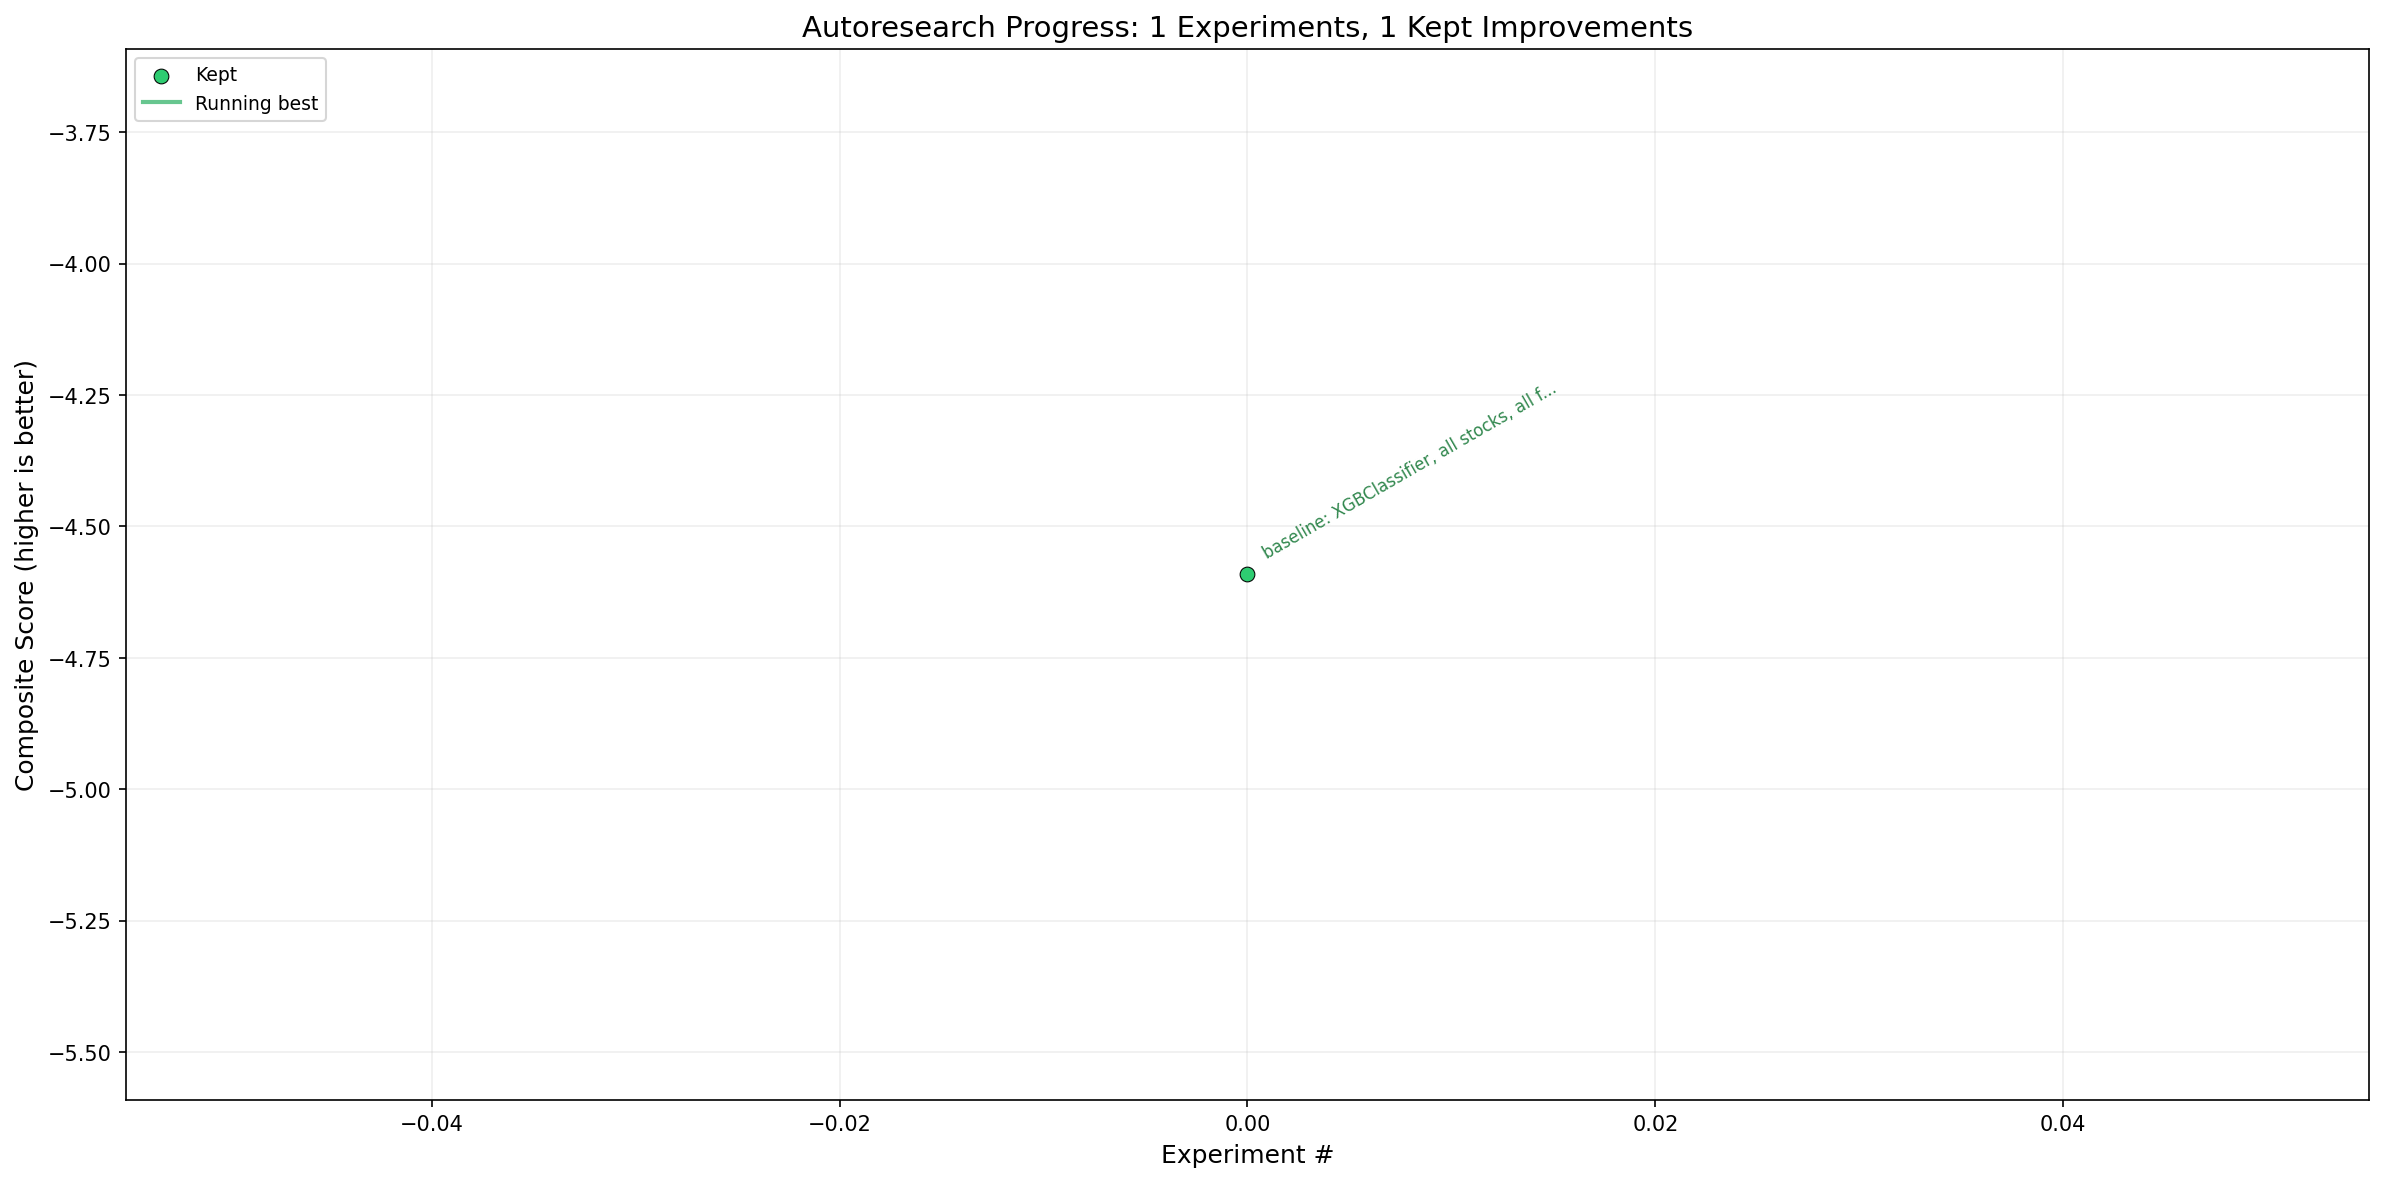
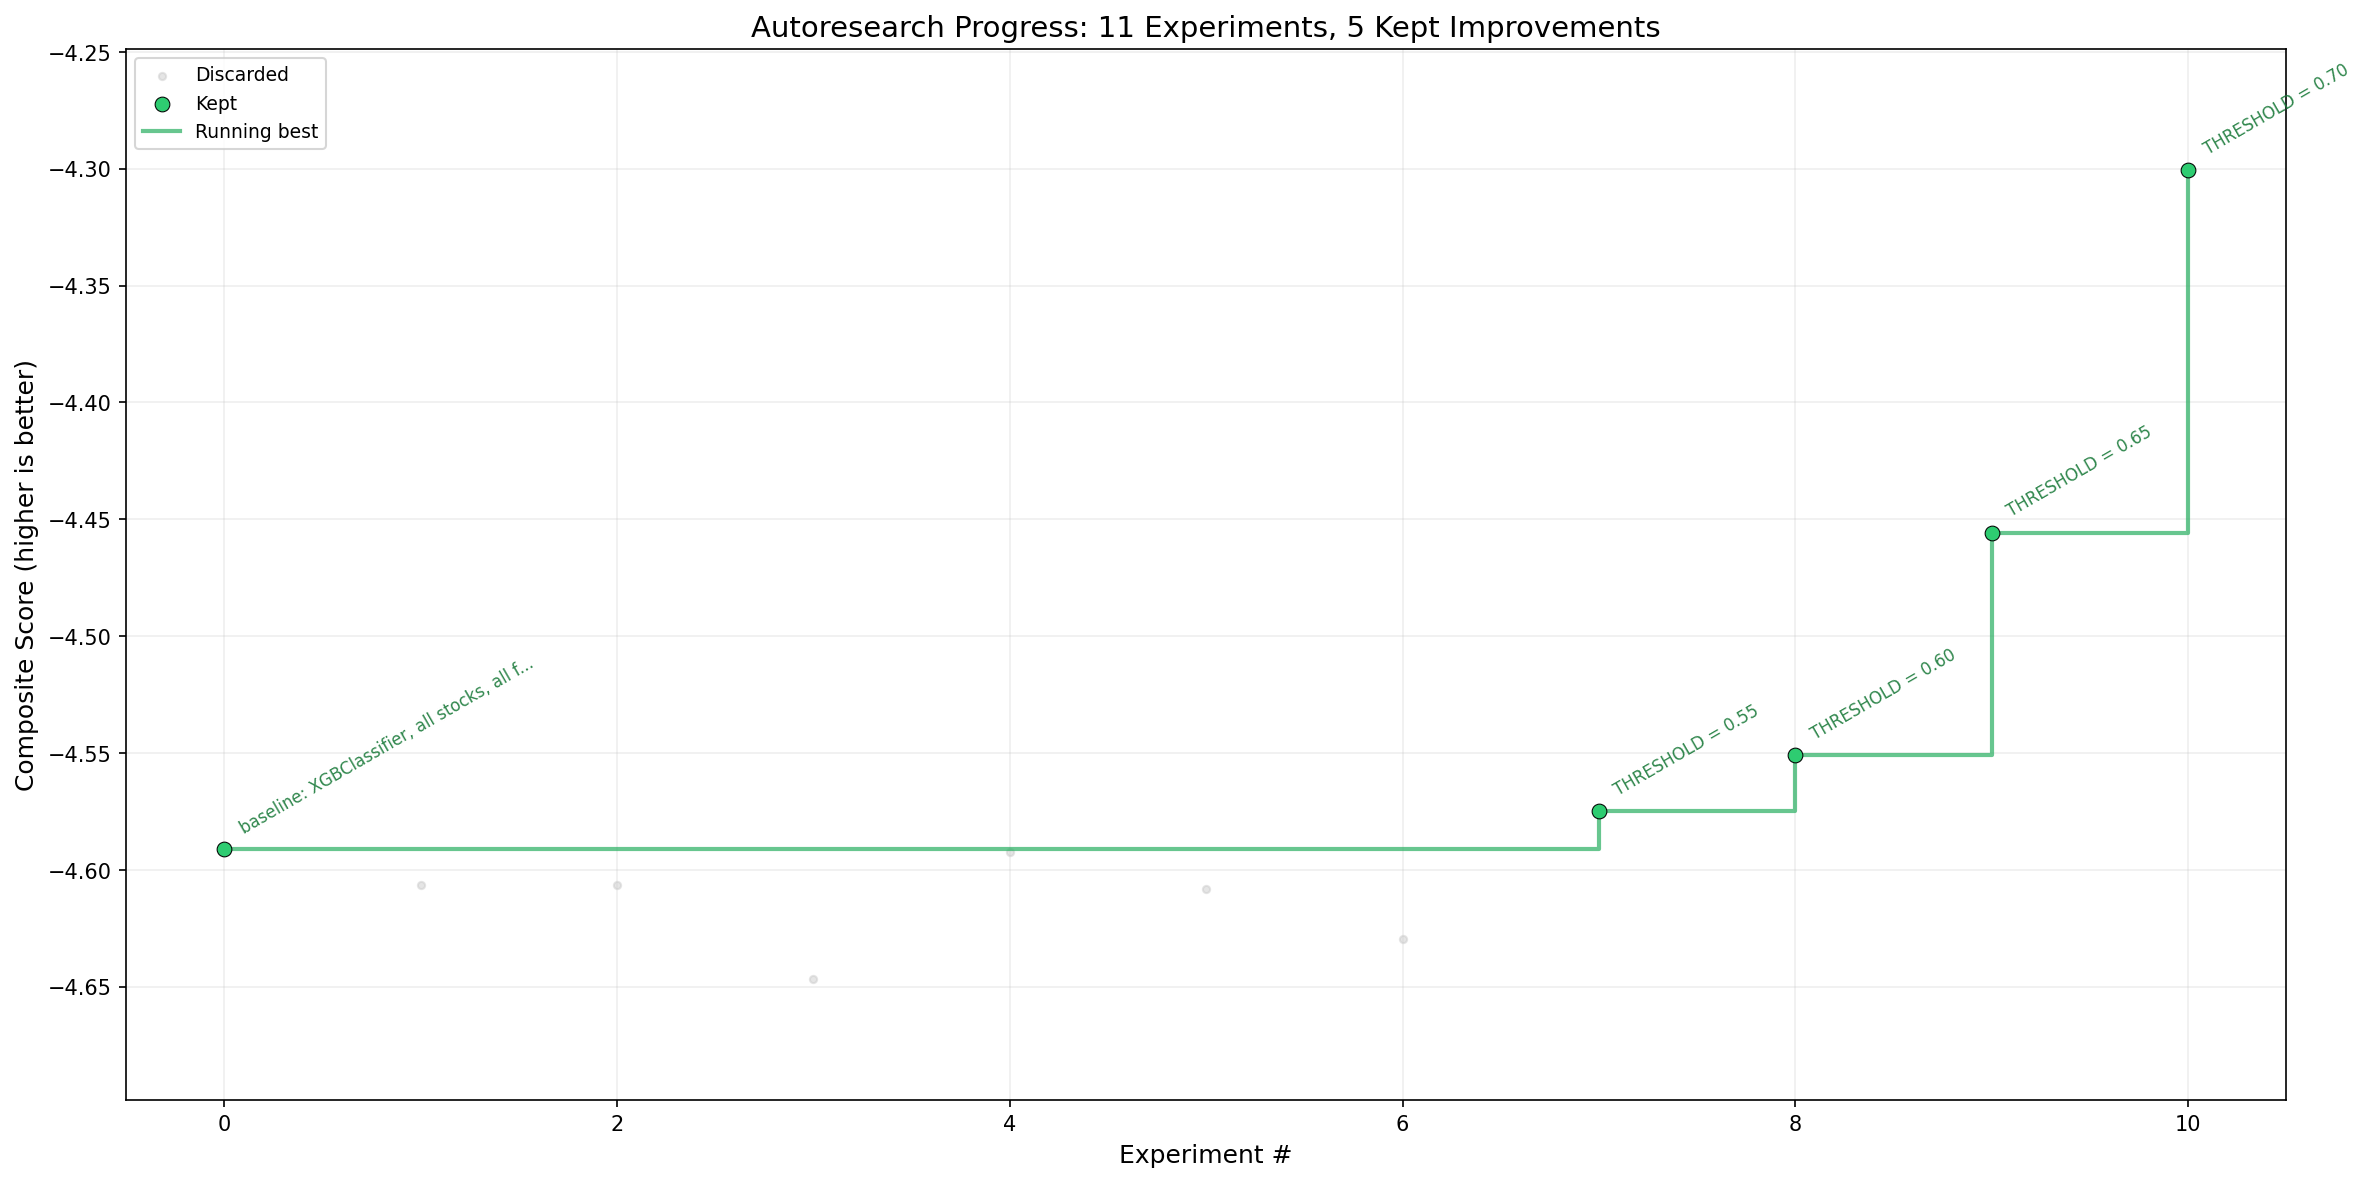
research: iter 12, score=-3.9724 (+0.3282)

diff --git a/research/experiment.py b/research/experiment.py
@@ -37,7 +37,7 @@ TRAIN_END = "2022-12-31"
 VAL_END = "2023-12-31"
 
 # Prediction threshold
-THRESHOLD = 0.70
+THRESHOLD = 0.75
 
 # ===========================================================================
 # MODEL -- researcher edits this section

diff --git a/research/COMBAT_LOG.md b/research/COMBAT_LOG.md
@@ -1,3 +1,186 @@
 # Combat Log
 
 What worked, what failed, and why. Read this BEFORE starting a new iteration.
+
+### Iteration 1 -- REVERTED (-0.0151)
+Score: -4.6063 vs best -4.5912
+Change: THRESHOLD = 0.30 
+```diff
+diff --git a/research/experiment.py b/research/experiment.py
+index af3e4f4..6277dca 100644
+--- a/research/experiment.py
++++ b/research/experiment.py
+@@ -37,7 +37,7 @@ TRAIN_END = "2022-12-31"
+ VAL_END = "2023-12-31"
+ 
+ # Prediction threshold
+-THRESHOLD = 0.5
++THRESHOLD = 0.30
+ 
+ # ===========================================================================
+ # MODEL -- researcher edits this section
+```
+
+### Iteration 2 -- REVERTED (-0.0151)
+Score: -4.6063 vs best -4.5912
+Change: from lightgbm import LGBMClassifier     model = LGBMClassifier(         n_estima
+```diff
+diff --git a/research/experiment.py b/research/experiment.py
+index af3e4f4..5d2dc3c 100644
+--- a/research/experiment.py
++++ b/research/experiment.py
+@@ -11,7 +11,7 @@ import sys
+ from pathlib import Path
+ 
+ import numpy as np  # noqa: F401 -- available for researcher
+-from xgboost import XGBClassifier
++from lightgbm import LGBMClassifier
+ 
+ # Ensure project root is on path
+ sys.path.insert(0, str(Path(__file__).resolve().parent.parent))
+@@ -46,20 +46,19 @@ THRESHOLD = 0.5
+ 
+ def build_model(y_train):
+     """Return a fitted-ready model. Researcher chooses model type and hyperparams."""
+-    neg = (y_train == 0).sum()
+-    pos = (y_train == 1).sum()
+-
+-    model = XGBClassifier(
+-        n_estimators=300,
++    model = LGBMClassifier(
++        n_estimators=500,
+         max_depth=6,
+-        learning_rate=0.05,
+-        subsample=0.8,
+-        colsample_bytree=0.8,
+-        scale_pos_weight=neg / pos,
+-        tree_method="hist",
++        learning_rate=0.03,
++        subsample=0.7,
++        colsample_bytree=0.7,
++        min_child_samples=50,
++        reg_alpha=0.1,
++        reg_lambda=1.0,
++        is_unbalance=True,
+         random_state=42,
+         n_jobs=-1,
+-        verbosity=0,
++        verbose=-1,
+     )
+     return model
+ 
+```
+
+### Iteration 3 -- REVERTED (-0.0554)
+Score: -4.6466 vs best -4.5912
+Change:         max_depth=4,         min_child_weight=10,         reg_alpha=0.5,        
+```diff
+diff --git a/research/experiment.py b/research/experiment.py
+index af3e4f4..3f44e73 100644
+--- a/research/experiment.py
++++ b/research/experiment.py
+@@ -51,10 +51,13 @@ def build_model(y_train):
+ 
+     model = XGBClassifier(
+         n_estimators=300,
+-        max_depth=6,
++        max_depth=4,
+         learning_rate=0.05,
++        min_child_weight=10,
+         subsample=0.8,
+         colsample_bytree=0.8,
++        reg_alpha=0.5,
++        reg_lambda=3,
+         scale_pos_weight=neg / pos,
+         tree_method="hist",
+         random_state=42,
+```
+
+### Iteration 5 -- REVERTED (-0.0010)
+Score: -4.5922 vs best -4.5912
+Change:     g = df.groupby("stock_id")      # Intraday recovery: fraction of daily range
+```diff
+diff --git a/research/features_lab.py b/research/features_lab.py
+index 68d988e..7fdb2b2 100644
+--- a/research/features_lab.py
++++ b/research/features_lab.py
+@@ -22,6 +22,37 @@ def add_custom_features(df: pd.DataFrame) -> tuple[pd.DataFrame, list[str]]:
+ 
+     # --- RESEARCHER: add features below ---
+ 
++    g = df.groupby("stock_id")
++
++    # Intraday recovery: fraction of daily range recaptured from the low
++    # High value = strong buying pressure at lows (continuous hammer signal)
++    rng = df["high"] - df["low"]
++    df["intraday_recovery"] = (df["close"] - df["low"]) / rng.replace(0, float("nan"))
++    new_features.append("intraday_recovery")
++
++    # Cumulative selling pressure: sum of negative returns over 5 days
++    # Deep negative = heavy recent damage, potential capitulation zone
++    neg_ret = df["ret_1d"].clip(upper=0)
++    df["cum_sell_pressure_5d"] = neg_ret.groupby(df["stock_id"]).transform(
++        lambda x: x.rolling(5, min_periods=1).sum()
++    )
++    new_features.append("cum_sell_pressure_5d")
++
++    # Volume climax: volume spike magnitude on down days only
++    # High value = capitulation selling (big volume + big drop)
++    df["volume_climax"] = (
++        df["volume_ratio"] * df["ret_1d"].abs() * (df["ret_1d"] < 0).astype(float)
++    )
++    new_features.append("volume_climax")
++
++    # Bounce from 5-day low, ATR-normalized
++    # Near zero = sitting at local low; positive = recovering from it
++    low_5d = g["low"].transform(lambda x: x.rolling(5, min_periods=1).min())
++    df["bounce_from_5d_low"] = (df["close"] - low_5d) / df["atr_14"].replace(
++        0, float("nan")
++    )
++    new_features.append("bounce_from_5d_low")
++
+     # --- END researcher section ---
+ 
+     return df, new_features
+```
+
+### Iteration 6 -- REVERTED (-0.0172)
+Score: -4.6084 vs best -4.5912
+Change:         n_estimators=500,         learning_rate=0.03, 
+```diff
+diff --git a/research/experiment.py b/research/experiment.py
+index af3e4f4..b25f39e 100644
+--- a/research/experiment.py
++++ b/research/experiment.py
+@@ -50,9 +50,9 @@ def build_model(y_train):
+     pos = (y_train == 1).sum()
+ 
+     model = XGBClassifier(
+-        n_estimators=300,
++        n_estimators=500,
+         max_depth=6,
+-        learning_rate=0.05,
++        learning_rate=0.03,
+         subsample=0.8,
+         colsample_bytree=0.8,
+         scale_pos_weight=neg / pos,
+```
+
+### Iteration 7 -- REVERTED (-0.0384)
+Score: -4.6296 vs best -4.5912
+Change: FEATURE_GROUPS = ["base", "advanced"] 
+```diff
+diff --git a/research/experiment.py b/research/experiment.py
+index af3e4f4..38d3b67 100644
+--- a/research/experiment.py
++++ b/research/experiment.py
+@@ -30,7 +30,7 @@ DATASET_PATH = "data/datasets/20260115/dataset.parquet"
+ STOCKS = None
+ 
+ # Feature groups: see list_features() for options
+-FEATURE_GROUPS = None  # None = all
++FEATURE_GROUPS = ["base", "advanced"]
+ 
+ # Temporal split boundaries
+ TRAIN_END = "2022-12-31"
+```

diff --git a/research/RESEARCH_LOG.md b/research/RESEARCH_LOG.md
@@ -11,3 +11,41 @@ Key observations:
 - Win rate 49.7% -- coin flip
 - Knife rate 19.9% -- buying into continued drops
 - Bear regime slightly better than bull (+0.30% vs -0.56%)
+
+### Iteration 1 -- REVERTED (-0.0151)
+Score: -4.6063 | THRESHOLD = 0.30 
+
+### Iteration 2 -- REVERTED (-0.0151)
+Score: -4.6063 | from lightgbm import LGBMClassifier     model = LGBMClassifier(         n_estima
+
+### Iteration 3 -- REVERTED (-0.0554)
+Score: -4.6466 |         max_depth=4,         min_child_weight=10,         reg_alpha=0.5,        
+
+### Iteration 4 -- GATE FAILED
+Reason: GATE VIOLATION: Experiment crashed (exit code 1).
+Change: import numpy as np     g = df.groupby("stock_id")      # Return acceleration: 5d
+
+### Iteration 5 -- REVERTED (-0.0010)
+Score: -4.5922 |     g = df.groupby("stock_id")      # Intraday recovery: fraction of daily range
+
+### Iteration 6 -- REVERTED (-0.0172)
+Score: -4.6084 |         n_estimators=500,         learning_rate=0.03, 
+
+### Iteration 7 -- REVERTED (-0.0384)
+Score: -4.6296 | FEATURE_GROUPS = ["base", "advanced"] 
+
+### Iteration 8 -- IMPROVED (+0.0162)
+Score: -4.5750 | THRESHOLD = 0.55 
+Commit: 9b6da39
+
+### Iteration 9 -- IMPROVED (+0.0242)
+Score: -4.5508 | THRESHOLD = 0.60 
+Commit: 40601e5
+
+### Iteration 10 -- IMPROVED (+0.0951)
+Score: -4.4557 | THRESHOLD = 0.65 
+Commit: 48ef559
+
+### Iteration 11 -- IMPROVED (+0.1551)
+Score: -4.3006 | THRESHOLD = 0.70 
+Commit: 845411a
